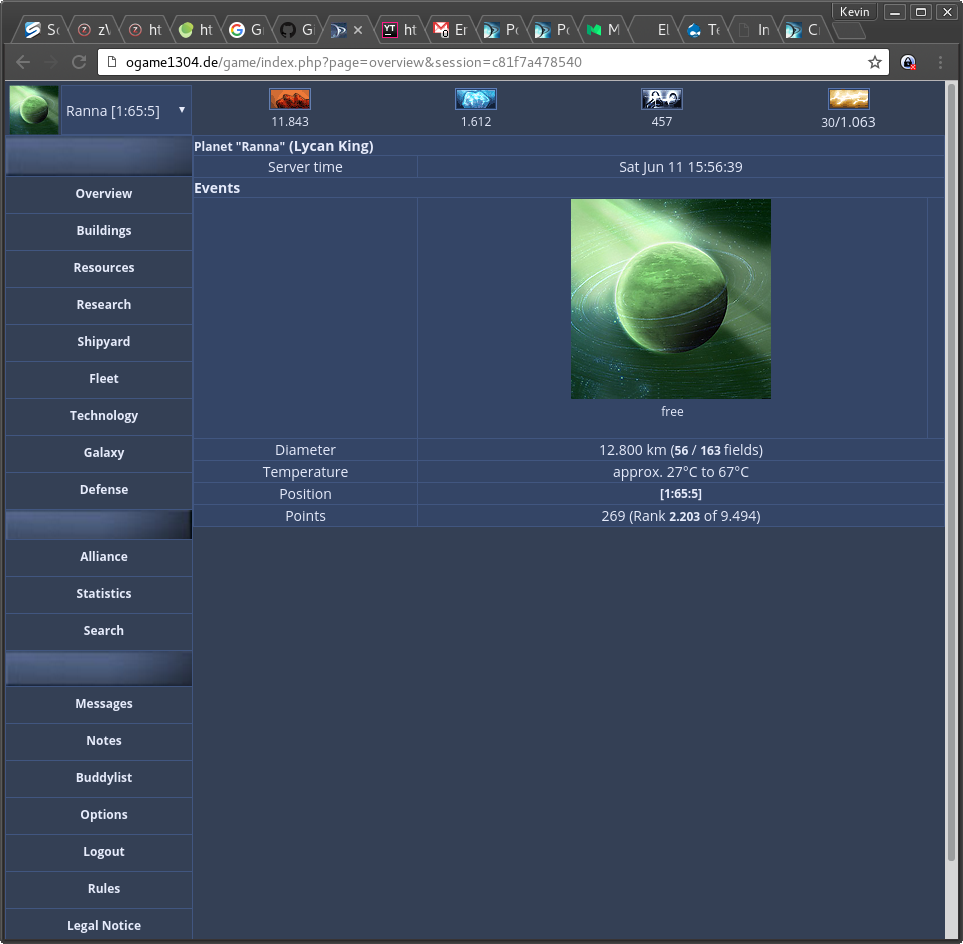
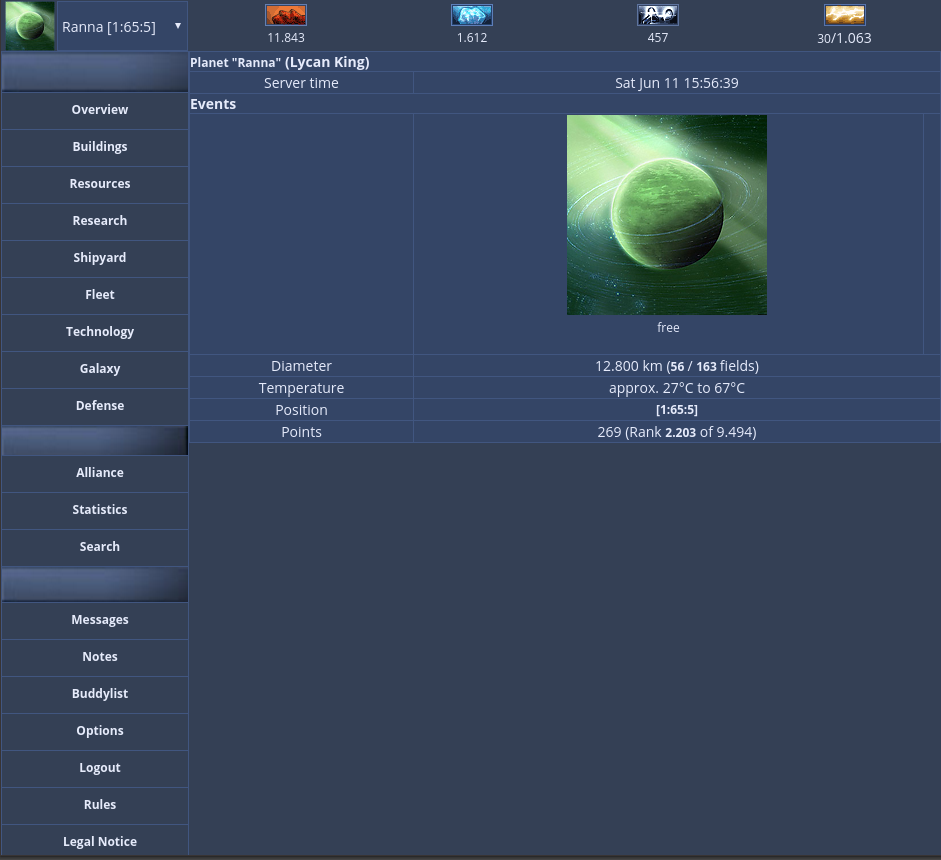
Fixed 404 assets from base skin and removed old dev link.

diff --git a/skins/epicblue-improved/formate.css b/skins/epicblue-improved/formate.css
@@ -1,3 +1,4 @@
+
 /** General overrides and fixes to main html */
 *, html, body, div, table, tr, td, tbody, thead {
     font-family: 'Open Sans', sans-serif !important;
@@ -5,11 +6,13 @@
     font-size: 12px;
     overflow: visible !important;
     position: relative !important;
+    
     /*border-collapse: collapse;*/
 }
 
-html, body, div {
+html, body, div, td.c {
     background-color: #344055;
+    background-image: none;
 }
 
 html, body {
@@ -199,7 +202,7 @@ table, tr, td, tbody, thead {
 }
 
 #leftmenu #menu table tbody tr td {
-    background-image: url('https://zvps.uk/ogame/gfx/info-help.jpg');
+    background-image: url('gfx/user-menu.jpg');
     background-repeat: repeat-x;
     background-size: cover;
     width: 100% !important;
